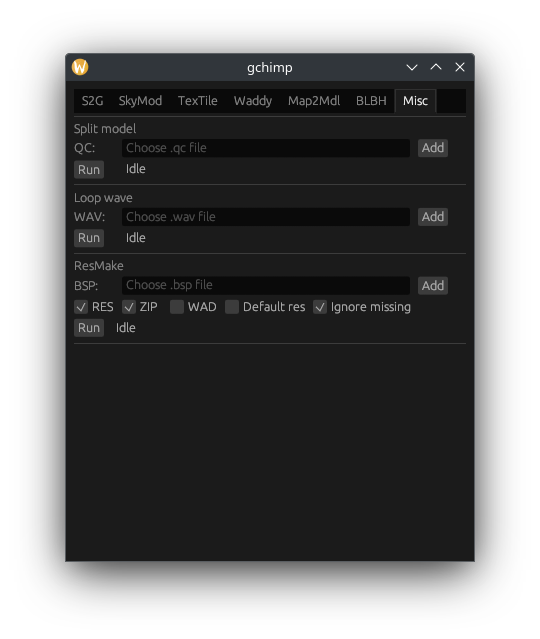
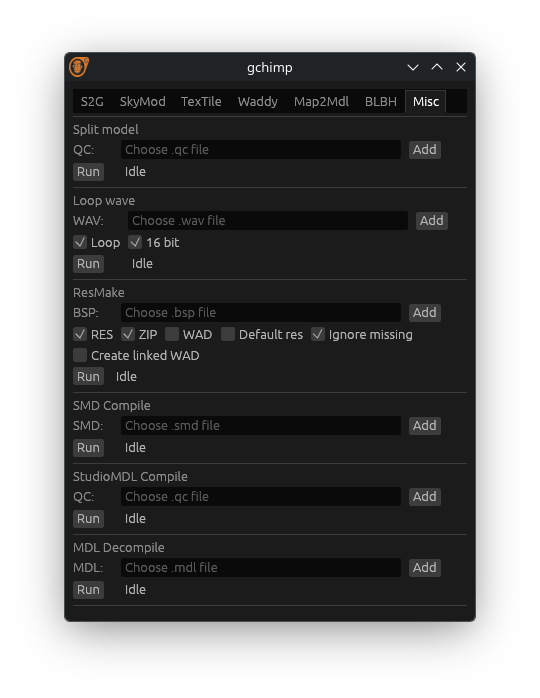
Update Misc program description

diff --git a/README.md b/README.md
@@ -32,7 +32,11 @@ Usually it would just work out of the box. If there is any problem, try starting
 
 - [Command line interface: Some other features that don't deserve GUI treatment (or do deserve CLI treatment)](https://github.com/khanghugo/gchimp/wiki/Command%E2%80%90line-interface)
 
-- [Miscellaneous stuffs such as .wav looper, .smd splitter,...](https://github.com/khanghugo/gchimp/wiki/Misc)
+- [Miscallenous stuffs](https://github.com/khanghugo/gchimp/wiki/Misc)
+  - `.res` generation and map files archiver
+  - GoldSrc `.mdl` decompiler
+  - `.wav` looper
+  - And some other random thinngs
 
 - [Custom Scripting: Write your own functionality](https://github.com/khanghugo/gchimp/wiki/Custom-Scripting)
 
